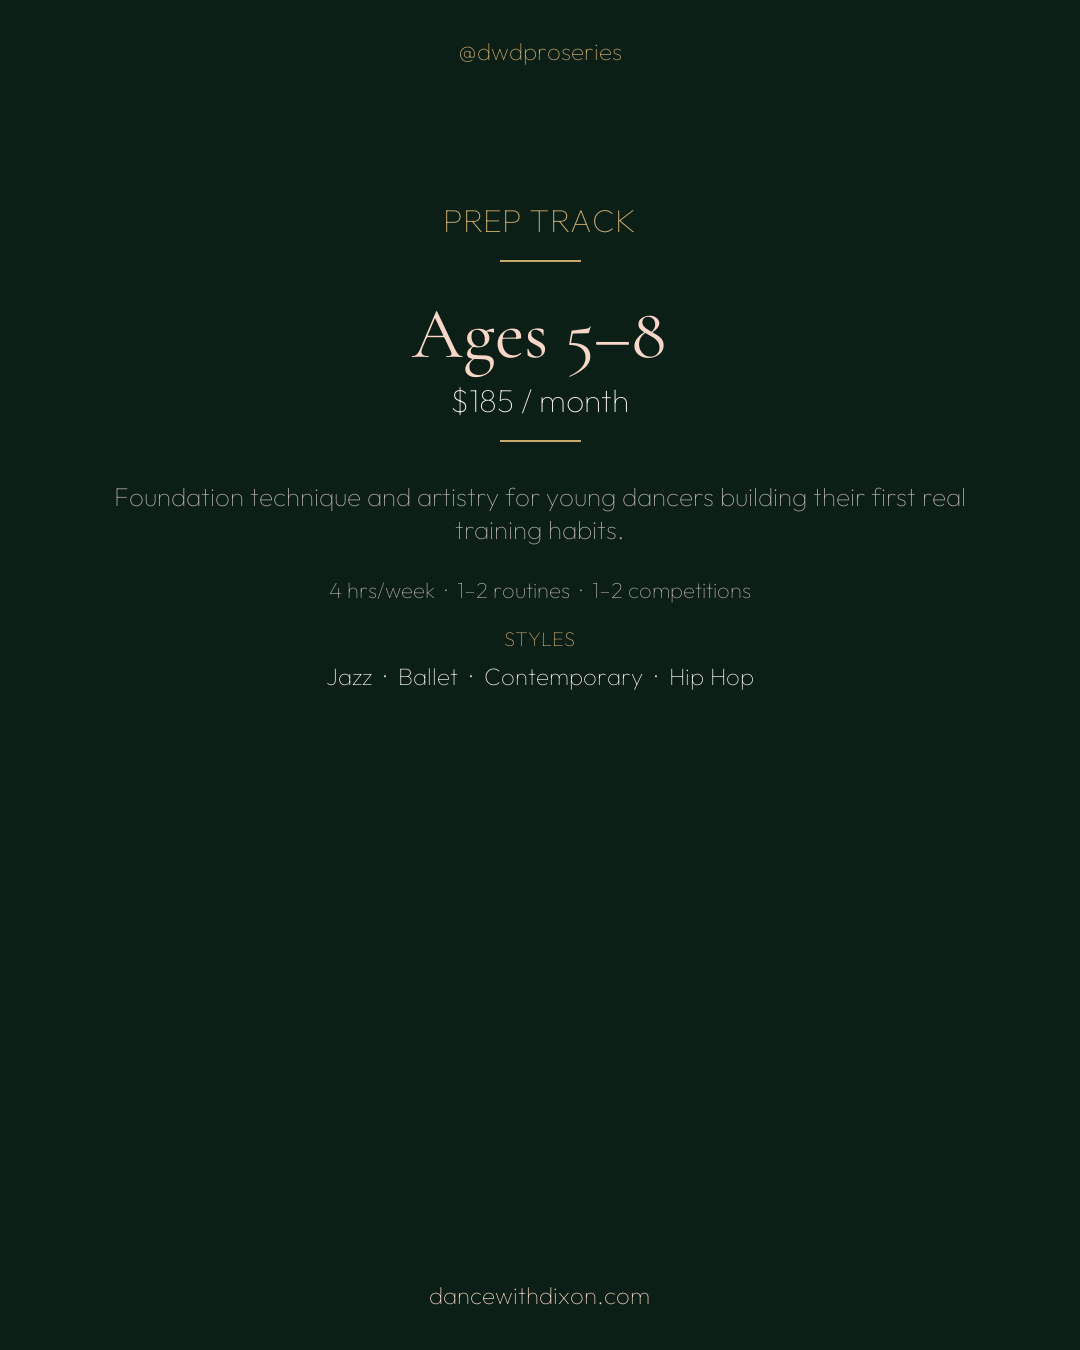
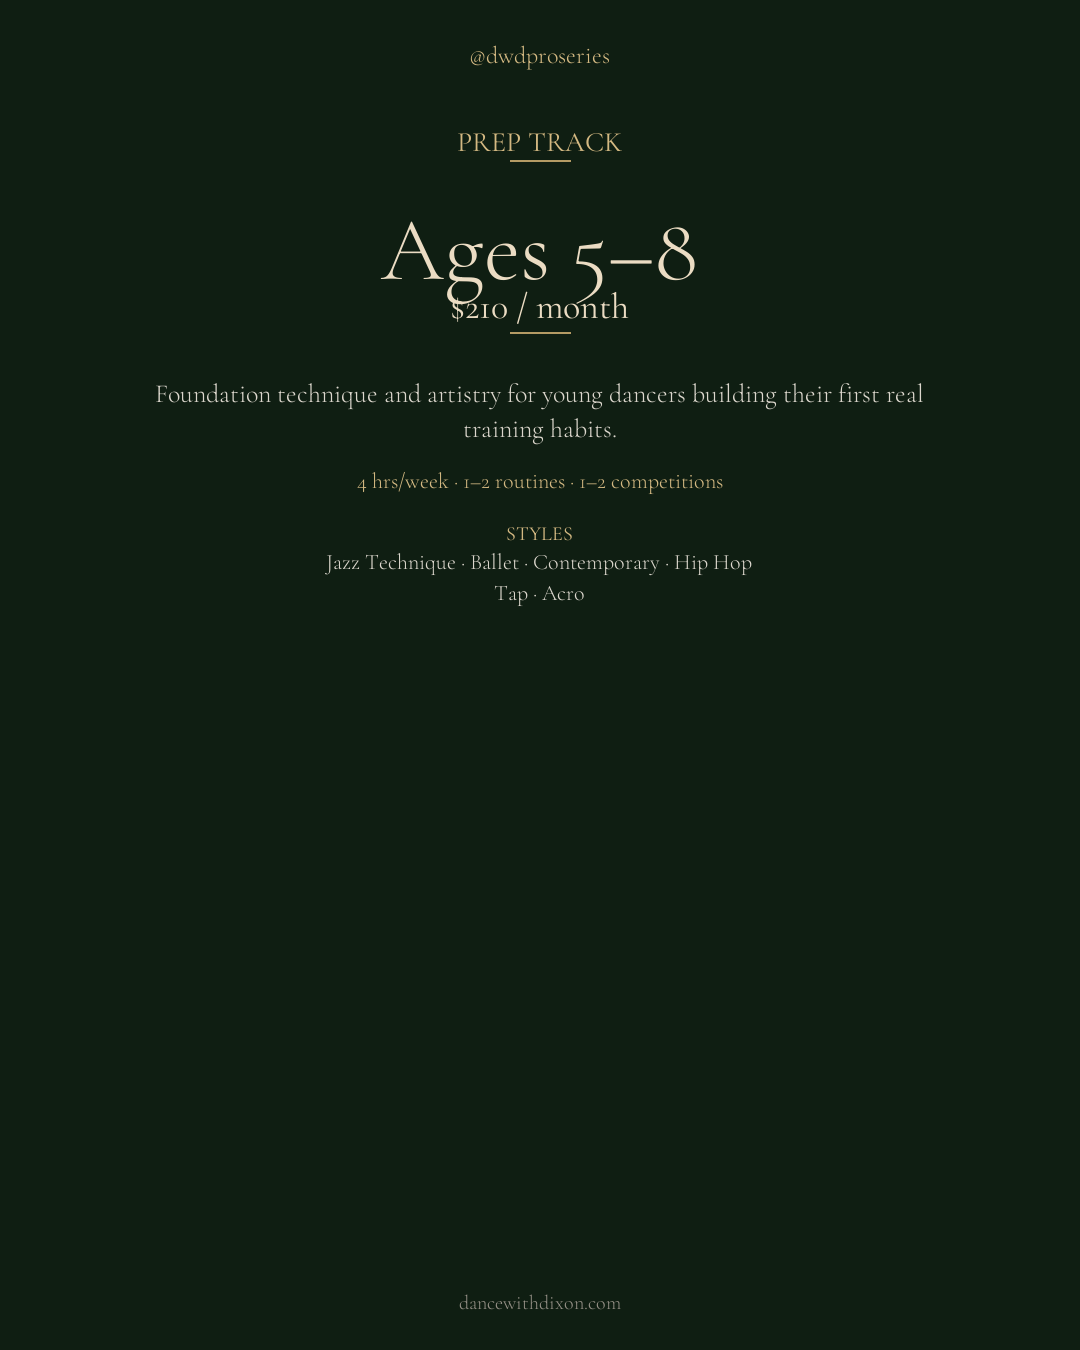
Update campaign graphics and website with new ProSeries pricing
- Prep: $185 → $210, Elite: $250 → $275, Pro: $325 → $350
- Add Tap and Acro to style lists across all ProSeries descriptions
- Jazz → Jazz Technique in general program descriptions
- Updated 3 Program Overview slides (Week 3) and 3 Recap slides (Week 4)

diff --git a/index.html b/index.html
@@ -161,7 +161,7 @@
           <div class="bring-item">
             <h4>Two Programs, One Standard</h4>
             <ul>
-              <li><strong>DWD ProSeries</strong> — full competitive training across all styles (jazz, ballet, contemporary, lyrical, hip hop, musical theatre) for dancers ages 5+. Three tracks. Not a studio — a dedicated training company.</li>
+              <li><strong>DWD ProSeries</strong> — full competitive training across all styles (jazz technique, ballet, contemporary, lyrical, hip hop, tap, acro, musical theatre) for dancers ages 5+. Three tracks. Not a studio — a dedicated training company.</li>
               <li><strong>DWD Collective</strong> — modern dance company for adults. No audition required. All levels welcome. Weekly classes and real performances.</li>
               <li>Every class designed by a working director and choreographer — not pulled from a syllabus</li>
               <li>Choreography that tells stories — every piece has a purpose</li>
@@ -287,7 +287,7 @@
       <div class="content-section reveal">
         <h2>The Program</h2>
         <p>ProSeries is a full-spectrum competitive training program for dancers ages 5 and up. Three tracks — Prep, Elite, and Pro — each built around serious technique, artistry, and performance. This is your dancer's home for training, not an add-on.</p>
-        <p>Dancers train across all styles — jazz, ballet, contemporary, lyrical, hip hop, musical theatre — with an emphasis on jazz and ballet technique as the foundation for everything else. Every class is designed by a working choreographer and director, not pulled from a syllabus.</p>
+        <p>Dancers train across all styles — jazz technique, ballet, contemporary, lyrical, hip hop, tap, acro, musical theatre — with an emphasis on jazz and ballet technique as the foundation for everything else. Every class is designed by a working choreographer and director, not pulled from a syllabus.</p>
         <p>This isn't a recreational program and it isn't a studio. ProSeries is a company — a dedicated training environment built to develop well-rounded, professional-level dancers who are as strong in artistry as they are in technique.</p>
       </div>
 
@@ -306,7 +306,7 @@
           </div>
           <div class="why-item">
             <h4>Full Training in All Styles</h4>
-            <p>Jazz. Ballet. Contemporary. Lyrical. Hip hop. Musical theatre. Your dancer won't specialize too early or miss entire genres. The emphasis is on jazz and ballet technique — the foundation that makes everything else possible — with real depth across every style.</p>
+            <p>Jazz technique. Ballet. Contemporary. Lyrical. Hip hop. Tap. Acro. Musical theatre. Your dancer won't specialize too early or miss entire genres. The emphasis is on jazz and ballet technique — the foundation that makes everything else possible — with real depth across every style.</p>
           </div>
           <div class="why-item">
             <h4>Artists, Not Just Competitors</h4>
